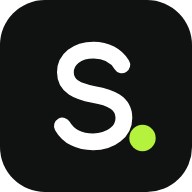
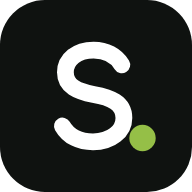
Panel: spokojniejsza zieleń (#95BF47), bez górnego paska nad treścią — przełącznik sklepów i konto w nawigacji; ikony aplikacji z nową zielenią
Claude-Session: https://claude.ai/code/session_01QA4VGn3Vp6FPgJRUSaiaDx

Changed region(s): [[0.6562, 0.625, 0.8125, 0.8125]]

diff --git a/frontend/apps/merchant-dashboard/src/app/features/store/store-shell.ts b/frontend/apps/merchant-dashboard/src/app/features/store/store-shell.ts
@@ -81,7 +81,7 @@ const NAV_BOTTOM: { title?: string; items: MerchantNavItem[] }[] = [
 @Component({
   selector: 'sv-store-shell',
   imports: [BackIconComponent, NavIconComponent, RouterOutlet, RouterLink, RouterLinkActive, LucideDynamicIcon, AppShellComponent, LoadingComponent, AlertComponent, ButtonComponent,
-    MenuComponent, MenuItemComponent, AvatarComponent, BadgeComponent, LogoComponent, SubscriptionBanner],
+    MenuComponent, MenuItemComponent, AvatarComponent, LogoComponent, SubscriptionBanner],
   providers: [StoreContext],
   changeDetection: ChangeDetectionStrategy.OnPush,
   template: `
@@ -129,25 +129,25 @@ const NAV_BOTTOM: { title?: string; items: MerchantNavItem[] }[] = [
             </ul>
           </div>
         }
-        <div shell-header-start class="flex min-w-0 items-center gap-2.5">
-          <span class="inline-flex items-center gap-1.5 rounded-full px-2.5 py-1 text-[12px] font-medium"
-            [class]="store.status === 'PUBLISHED' ? 'bg-success-soft text-success-ink' : 'bg-[#EEEFEB] text-ink-soft'">
-            <span class="size-1.5 rounded-full" [class]="store.status === 'PUBLISHED' ? 'bg-success' : 'bg-warning'"></span>
-            {{ store.status === 'PUBLISHED' ? 'Sklep otwarty' : 'Szkic — sklep niewidoczny dla klientów' }}</span>
-          @if (store.status === 'PUBLISHED' && storeUrl()) {
-            <a [href]="storeUrl()" target="_blank" rel="noopener" class="inline-flex items-center gap-1 truncate text-[13px] font-medium text-ink-soft hover:text-ink">
-              {{ store.primaryHostname }}<svg [lucideIcon]="icons.external" [size]="13" /></a>
-          }
-        </div>
-        <ng-container shell-header-end>
-          <sv-menu label="Wybierz sklep" triggerClass="h-9 gap-2 rounded-[var(--radius-control)] border border-line px-2.5 hover:bg-hover">
-            <span menu-trigger class="flex items-center gap-2">
-              <span class="flex size-6 items-center justify-center rounded-[6px] bg-primary-soft text-primary-strong">
-                <svg [lucideIcon]="icons.store" [size]="14" />
+        <!-- Store switcher at the top of the navigation (with the store's status). -->
+        <div shell-sidebar-top>
+          <sv-menu class="block w-full" align="start" label="Wybierz sklep"
+            triggerClass="w-full gap-2.5 rounded-[12px] border border-nav-line bg-nav-field px-2.5 py-2 text-left hover:bg-nav-hover">
+            <span menu-trigger class="flex w-full min-w-0 items-center gap-2.5">
+              <span class="flex size-8 shrink-0 items-center justify-center rounded-[8px] bg-neon text-[12px] font-bold text-night">{{ initials() }}</span>
+              <span class="min-w-0 flex-1">
+                <span class="block truncate text-[13px] font-medium text-nav-strong">{{ store.name }}</span>
+                <span class="flex items-center gap-1.5 truncate text-[11.5px] text-nav-muted" [attr.title]="store.status === 'PUBLISHED' ? null : 'Sklep jest niewidoczny dla klientów do czasu publikacji'">
+                  <span class="size-1.5 rounded-full" [class]="store.status === 'PUBLISHED' ? 'bg-success' : 'bg-warning'"></span>
+                  {{ store.status === 'PUBLISHED' ? 'Sklep otwarty' : 'Szkic' }}</span>
               </span>
-              <span class="hidden max-w-[160px] truncate text-[13px] font-medium text-ink sm:inline">{{ store.name }}</span>
-              <svg [lucideIcon]="icons.chevronsUpDown" [size]="14" class="text-ink-muted" />
+              <svg [lucideIcon]="icons.chevronsUpDown" [size]="15" class="shrink-0 text-nav-muted" />
             </span>
+            @if (store.status === 'PUBLISHED' && storeUrl()) {
+              <a sv-menu-item [href]="storeUrl()" target="_blank" rel="noopener"><svg [lucideIcon]="icons.external" />Otwórz sklep
+                <span class="ml-auto truncate text-[11px] text-ink-muted">{{ store.primaryHostname }}</span></a>
+              <div class="my-1 h-px bg-line"></div>
+            }
             <p class="px-2.5 pb-1 pt-1.5 text-[11px] font-semibold uppercase tracking-[0.06em] text-ink-muted">Twoje sklepy</p>
             @for (s of ctx.allStores(); track s.tenantId) {
               @if (s.tenantStatus === 'ACTIVE') {
@@ -162,23 +162,29 @@ const NAV_BOTTOM: { title?: string; items: MerchantNavItem[] }[] = [
             <a sv-menu-item routerLink="/nowy-sklep"><svg [lucideIcon]="icons.plus" />Nowy sklep</a>
             <a sv-menu-item routerLink="/sklepy"><svg [lucideIcon]="icons.bag" />Wszystkie sklepy</a>
           </sv-menu>
+        </div>
 
-          <sv-menu label="Menu użytkownika" triggerClass="gap-2 rounded-full py-1 pl-1 pr-2 hover:bg-hover">
-            <span menu-trigger class="flex items-center gap-2">
+        <!-- Account at the foot of the navigation (avatar only when it is collapsed). -->
+        <div shell-sidebar-bottom class="border-t border-nav-line px-3 py-3" [class.lg:px-2.5]="inSettings()">
+          <sv-menu class="block w-full" align="start" side="top" label="Menu użytkownika"
+            triggerClass="w-full gap-2.5 rounded-[10px] px-1.5 py-1.5 text-left hover:bg-nav-hover">
+            <span menu-trigger class="flex w-full min-w-0 items-center gap-2.5" [class.lg:justify-center]="inSettings()">
               <sv-avatar [name]="fullName()" size="sm" />
-              <span class="hidden text-[13px] font-medium text-ink md:inline">{{ fullName() }}</span>
-              <svg [lucideIcon]="icons.chevronDown" [size]="14" class="hidden text-ink-muted md:block" />
+              <span class="min-w-0 flex-1" [class.lg:hidden]="inSettings()">
+                <span class="block truncate text-[13px] font-medium text-nav-strong">{{ fullName() }}</span>
+                <span class="block truncate text-[11.5px] text-nav-muted">{{ roleLabel() }}</span>
+              </span>
+              <span class="shrink-0 text-nav-muted" [class.lg:hidden]="inSettings()"><svg [lucideIcon]="icons.chevronsUpDown" [size]="15" /></span>
             </span>
             <div class="px-2.5 pb-2 pt-1.5">
               <p class="truncate text-[13px] font-medium text-ink">{{ fullName() }}</p>
               <p class="truncate text-[12px] text-ink-muted">{{ session.user()?.email }}</p>
-              <sv-badge tone="info" class="mt-1.5">{{ roleLabel() }}</sv-badge>
             </div>
             <div class="my-1 h-px bg-line"></div>
             <a sv-menu-item routerLink="/konto"><svg [lucideIcon]="icons.user" />Ustawienia konta</a>
             <button sv-menu-item type="button" (click)="logout()"><svg [lucideIcon]="icons.logout" />Wyloguj</button>
           </sv-menu>
-        </ng-container>
+        </div>
 
         @if (inSettings()) {
           <!-- Phones: the settings sections as a scrollable strip. -->

diff --git a/frontend/libs/shared-ui/src/lib/app-shell.ts b/frontend/libs/shared-ui/src/lib/app-shell.ts
@@ -65,17 +65,16 @@ export interface NavSection {
       }
 
       <div #panel class="flex min-w-0 flex-1 flex-col bg-card lg:my-2.5 lg:mr-2.5 lg:overflow-y-auto lg:rounded-[18px]">
-        <header class="sticky top-0 z-30 flex h-14 shrink-0 items-center gap-3 border-b border-line bg-card/95 px-4 backdrop-blur sm:px-6 lg:px-8">
+        <header class="sticky top-0 z-30 flex h-14 shrink-0 items-center gap-3 border-b border-line bg-card/95 px-4 backdrop-blur sm:px-6 lg:hidden">
           <button type="button" class="-ml-1 rounded-[8px] p-2 text-ink-soft hover:bg-hover lg:hidden" (click)="drawerOpen.set(true)"
             aria-label="Otwórz menu">
             <svg [lucideIcon]="icons.menu" [size]="20" />
           </button>
           <a [routerLink]="homeLink()" class="lg:hidden" aria-label="Strona główna panelu"><sv-logo [suffix]="logoSuffix()" /></a>
-          <div class="hidden min-w-0 lg:block"><ng-content select="[shell-header-start]" /></div>
-          <div class="ml-auto flex items-center gap-1 sm:gap-2"><ng-content select="[shell-header-end]" /></div>
+                    <div class="ml-auto flex items-center gap-1 sm:gap-2"><ng-content select="[shell-header-end]" /></div>
         </header>
 
-        <main id="sv-main" class="min-w-0 flex-1 px-4 py-6 sm:px-6 lg:px-8 lg:py-7">
+        <main id="sv-main" class="min-w-0 flex-1 px-4 py-6 sm:px-6 lg:px-10 lg:py-9">
           <div class="mx-auto w-full" [class]="narrow() ? 'max-w-[840px]' : 'max-w-[1600px]'"><ng-content /></div>
         </main>
       </div>
@@ -153,7 +152,7 @@ export interface NavSection {
               }
             </ul>
           }
-          <div [class.lg:hidden]="rail()"><ng-content select="[shell-sidebar-bottom]" /></div>
+          <ng-content select="[shell-sidebar-bottom]" />
         </div>
       </nav>
     </ng-template>

diff --git a/frontend/libs/shared-ui/src/styles/theme.css b/frontend/libs/shared-ui/src/styles/theme.css
@@ -5,7 +5,7 @@
  * Night frame, white page: a black navigation column with a neon active item, a white work surface with thin borders
  * and lighter type (like the reference admin), neon only for the one key action and the logo dot, black buttons.
  * Contrast rules (WCAG AA):
- *  - neon (#B5F23D) is a FILL colour only — always with night (#0F1210) text on it, never as text on white;
+ *  - green accent (#95BF47) is a FILL colour only — always with night (#0F1210) text on it, never as text on white;
  *  - green text/links use primary-strong (#2E6B0F, 6.4:1 on white); primary (#4C9A1B) is for icons and borders;
  *  - ink-muted (#8A8F88) is for meta labels and icons only, body text uses ink-soft (#575D58, 6.6:1).
  */
@@ -37,13 +37,13 @@
   --color-nav-hover: rgba(255, 255, 255, 0.08);
   --color-nav-line: rgba(255, 255, 255, 0.09);
   --color-nav-field: rgba(255, 255, 255, 0.08);
-  --color-nav-active: #B5F23D;
+  --color-nav-active: #95BF47;
   --color-nav-active-text: #0F1210;
 
   /* Accent */
-  --color-neon: #B5F23D;
-  --color-neon-deep: #9FDE24;
-  --color-neon-soft: #F2FCDF;
+  --color-neon: #95BF47;
+  --color-neon-deep: #86AE3C;
+  --color-neon-soft: #EEF5E1;
 
   /* Work surface */
   --color-page: #FFFFFF;

diff --git a/frontend/libs/shared-ui/src/lib/menu.ts b/frontend/libs/shared-ui/src/lib/menu.ts
@@ -17,7 +17,8 @@ import { ChangeDetectionStrategy, Component, ElementRef, HostListener, inject, i
     </button>
     @if (open()) {
       <div role="menu" [attr.aria-label]="label()" (click)="onPanelClick($event)" (keydown)="onKey($event)"
-        class="absolute z-40 mt-2 min-w-[220px] rounded-[12px] border border-line bg-card p-1.5 shadow-[var(--shadow-pop)]"
+        class="absolute z-40 min-w-[220px] rounded-[12px] border border-line bg-card p-1.5 text-ink shadow-[var(--shadow-pop)]"
+        [class.mt-2]="side() === 'bottom'" [class.bottom-full]="side() === 'top'" [class.mb-2]="side() === 'top'"
         [class.right-0]="align() === 'end'" [class.left-0]="align() === 'start'">
         <ng-content />
       </div>
@@ -28,6 +29,8 @@ export class MenuComponent {
   private readonly host = inject(ElementRef<HTMLElement>);
   readonly label = input.required<string>();
   readonly align = input<'start' | 'end'>('end');
+  /** Where the panel opens (`top` for menus at the foot of the navigation). */
+  readonly side = input<'top' | 'bottom'>('bottom');
   readonly triggerClass = input('');
   protected readonly open = signal(false);
 

diff --git a/docs/DESIGN_SYSTEM.md b/docs/DESIGN_SYSTEM.md
@@ -13,7 +13,7 @@ sam (po zmianie strony wraca na górę, zmiana filtrów nie przewija).
 | Token | Wartość | Użycie |
 |---|---|---|
 | `--nav-bg`, `nav-*` | `#0F1210`; tekst `#E7EAE5`, przygaszony `#8E958D` | tło nawigacji i ramki (czarne, wybrane spośród 5 wariantów), aktywna pozycja `nav-active` = neon; cała paleta paska w jednym miejscu w `theme.css` |
-| `neon` / `neon-deep` | `#B5F23D` / `#9FDE24` | aktywna pozycja menu, przycisk `accent`, kropka nad „ı” w logo — **tylko jako wypełnienie z czarnym tekstem**, nigdy tekst na bieli |
+| `neon` / `neon-deep` | `#95BF47` / `#86AE3C` (spokojna zieleń, nie jaskrawa) | aktywna pozycja menu, przycisk `accent`, kropka nad „ı” w logo — **tylko jako wypełnienie z czarnym tekstem**, nigdy tekst na bieli |
 | `night` / `night-3` | `#0F1210` / `#262B27` | przycisk `primary`, przełączniki, ciemne plakietki |
 | `canvas` / `card` | `#F2F3F0` / `#FFFFFF` | tło treści / karty, nagłówek |
 | `ink` / `ink-soft` / `ink-muted` | `#161916` / `#575D58` / `#8A8F88` | tekst / tekst drugorzędny (AA) / meta i ikony |
@@ -49,6 +49,10 @@ Ikony nawigacji: Hugeicons stroke-rounded (MIT, `lib/nav-icon-paths.ts` generowa
 1.0.10) — miękkie, zaokrąglone kształty (`sv-nav-icon`); pozostałe ikony interfejsu: Lucide. W zwiniętej nawigacji
 nazwy pokazuje dymek `svTooltip` (renderowany na `<body>`, więc nie ucina go przewijana lista). Treść stron jest biała,
 karty z cienką ramką bez cienia, pola białe z ramką, lżejsze wagi kroju (medium 480, semibold 560).
+
+Nawigacja bez górnego paska nad treścią (na komputerze): przełącznik sklepów ze statusem sklepu jest na górze kolumny
+nawigacji, konto użytkownika na jej dole (menu otwiera się w górę, w zwiniętej nawigacji — sam awatar). Na telefonie
+zostaje cienki pasek z przyciskiem menu i logo.
 
 ## Komponenty
 
